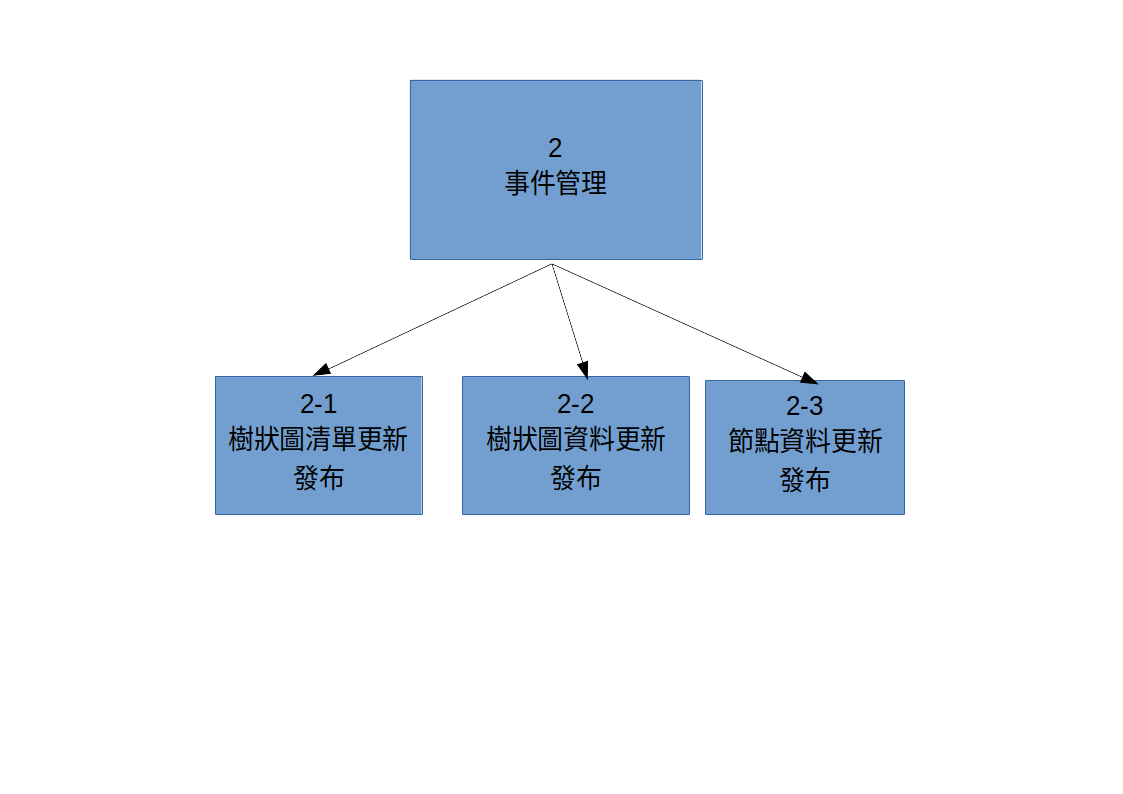
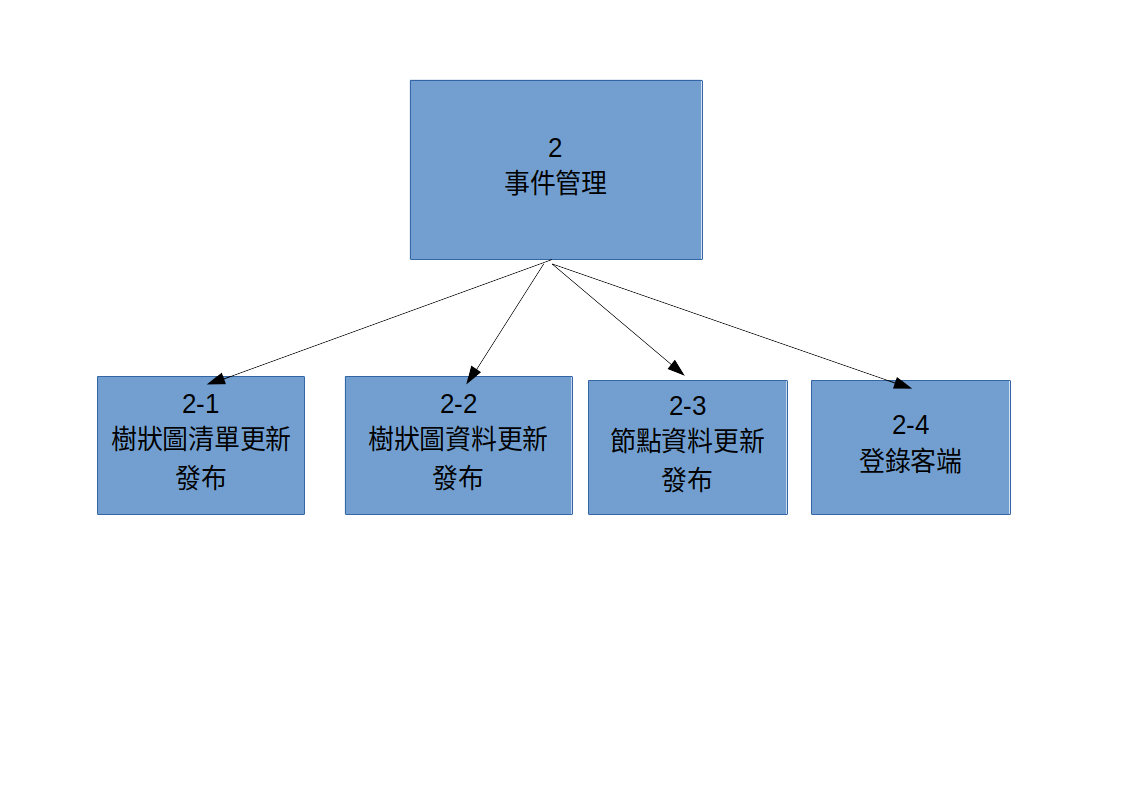
更新 設計文件

Changed region(s): [[0.0623, 0.4534, 0.9038, 0.665], [0.4675, 0.3325, 0.5298, 0.3627], [0.561, 0.3627, 0.5922, 0.3929]]

diff --git a/doc/SDD.md b/doc/SDD.md
@@ -160,9 +160,134 @@
           - INPUT：無
           - PROCESS：
             1. 從樹狀圖資料讀取資料。
-            1. 透過網路回傳給客端
+            1. 透過網路回傳給客端。
           - OUTPUT： 樹狀圖資料的陣列
+          - 觸發事件：無
           - 資料表：樹狀圖資料
+        - 功能編號：1-1-2
+          - 功能名稱：新增樹
+          - 功能說明：新增樹
+          - 程式名稱：createTree
+          - INPUT：
+            1. 樹狀圖資料
+          - PROCESS：
+            1. 將樹狀圖資料寫入資料庫。
+            1. 透過網路回傳客端處理完成。
+          - OUTPUT：無
+          - 觸發事件：樹狀圖清單更新發布
+          - 資料表：樹狀圖資料
+        - 功能編號：1-1-3
+          - 功能名稱：取得樹的資料
+          - 功能說明：取得樹的資料
+          - 程式名稱：getTreeByUUID
+          - INPUT：
+            1. 樹狀圖的uuid
+          - PROCESS：
+            1. 利用樹狀圖的uuid查詢樹狀圖資料中的資料。
+            1. 透過網路回傳給客端所取得的樹狀圖資料。
+          - OUTPUT：樹狀圖資料
+          - 觸發事件：無
+          - 資料表：樹狀圖資料
+        - 功能編號：1-1-4
+          - 功能名稱：刪除樹
+          - 功能說明：刪除樹
+          - 程式名稱：deleteTree
+          - INPUT：
+            1. 樹狀圖的uuid
+          - PROCESS：
+            1. 利用樹狀圖的uuid查刪除樹狀圖資料中的資料。
+            1. 透過網路回傳客端處理完成。
+          - OUTPUT：無
+          - 觸發事件：樹狀圖清單更新發布
+          - 資料表：樹狀圖資料
+    1. 節點管理
+        - 功能編號：1-2-1
+          - 功能名稱：新增節點
+          - 功能說明：新增節點
+          - 程式名稱：createNode
+          - INPUT：
+            1. 樹狀圖的uuid
+            1. 父節點的uuid
+            1. 節點資料
+          - PROCESS：
+          - OUTPUT：無
+          - 觸發事件：樹狀圖資料更新發布
+        - 功能編號：1-2-2
+          - 功能名稱：更新節點資料
+          - 功能說明：更新節點資料
+          - 程式名稱：updateNodeData
+          - INPUT：
+            1. 節點的uuid
+            1. 節點資料
+          - PROCESS：
+          - OUTPUT：無
+          - 觸發事件：節點資料更新發布
+        - 功能編號：1-2-3
+          - 功能名稱：刪除節點與其子樹
+          - 功能說明：刪除節點與其子樹
+          - 程式名稱：deleteNodeTree
+          - INPUT：
+            1. 節點的uuid
+          - PROCESS：
+          - OUTPUT：無
+          - 觸發事件：樹狀圖資料更新發布
+        - 功能編號：1-2-4
+          - 功能名稱：移動節點與子樹
+          - 功能說明：移動節點與子樹
+          - 程式名稱：moveNode
+          - INPUT：
+            1. 節點的uuid
+            1. 新的父節點uuid
+          - PROCESS：
+          - OUTPUT：無
+          - 觸發事件：樹狀圖資料更新發布
+        - 功能編號：1-2-5
+          - 功能名稱：刪除節點保留子樹
+          - 功能說明：刪除節點保留子樹
+          - 程式名稱：deleteNode
+          - INPUT：
+            1. 節點的uuid
+          - PROCESS：
+          - OUTPUT：無
+          - 觸發事件：樹狀圖資料更新發布
+        - 功能編號：1-2-6
+          - 功能名稱：取得所有節點資料
+          - 功能說明：取得所有節點資料
+          - 程式名稱：getNodeView
+          - INPUT：
+            1. 樹狀圖的uuid
+          - PROCESS：
+          - 觸發事件：無
+          - OUTPUT：樹狀圖的所有節點關係
+1. 樹與節點管理
+    - 功能編號：2-1
+      - 功能名稱：樹狀圖清單更新發布
+      - 功能說明：樹狀圖清單更新發布
+      - 事件名稱：TreeListUpdate
+      - INPUT：無
+      - OUTPUT：無
+    - 功能編號：2-2
+      - 功能名稱：樹狀圖資料更新發布
+      - 功能說明：樹狀圖資料更新發布
+      - 事件名稱：TreeUpdate
+      - INPUT：無
+      - OUTPUT：
+        1. 樹狀圖的uuid
+    - 功能編號：2-3
+      - 功能名稱：節點資料更新發布
+      - 功能說明：節點資料更新發布
+      - 事件名稱：NodeUpdate
+      - INPUT：無
+      - OUTPUT：
+        1. 節點的uuid
+        1. 節點的資料
+    - 功能編號：2-3
+      - 功能名稱：登錄客端
+      - 功能說明：登錄客端
+      - 事件名稱：initEvent
+      - INPUT：
+        1. 節點的回呼物件
+      - OUTPUT：無
 
 ## 流程圖
 
@@ -171,6 +296,19 @@
 - 1-1-1 列出所有樹
 
     ![列出所有樹](./img/serverSite_P_1_1_1.png)
+
+- 1-1-2 新增樹
+- 1-1-3 取得樹的資料
+- 1-1-4 刪除樹
+- 1-2-1 新增節點
+- 1-2-2 更新節點資料
+- 1-2-3 刪除節點與其子樹
+- 1-2-4 移動節點與子樹
+- 1-2-5 刪除節點保留子樹
+- 1-2-6 取得所有節點資料
+- 2-1 樹狀圖清單更新發布
+- 2-2 樹狀圖資料更新發布
+- 2-3 節點資料更新發布
 
 ## 資料庫設計與規劃
 
@@ -186,17 +324,17 @@
   - 名稱：樹狀圖資料
     - Label: Tree
     - properties：
-    
+
       |名稱|型態|說明|
       |---|---|---|
       |uuid|字串|唯一值|
       |type|"Binary" or "Normal"|普通樹或二元樹|
       |lastUpdateDate|字串|更新時間|
-      
+
   - 名稱：節點資料
     - Label: Node
     - properties：
-    
+
       |名稱|型態|說明|
       |---|---|---|
       |uuid|字串|唯一值|
@@ -204,7 +342,7 @@
       |root|字串|樹uuid|
       |parent|字串|父節點uuid|
       |isBinaryleft|"true" or "false"|二元樹下是否為左子樹|
-      
+
 
 - Relationships
   - 名稱：為子節點
